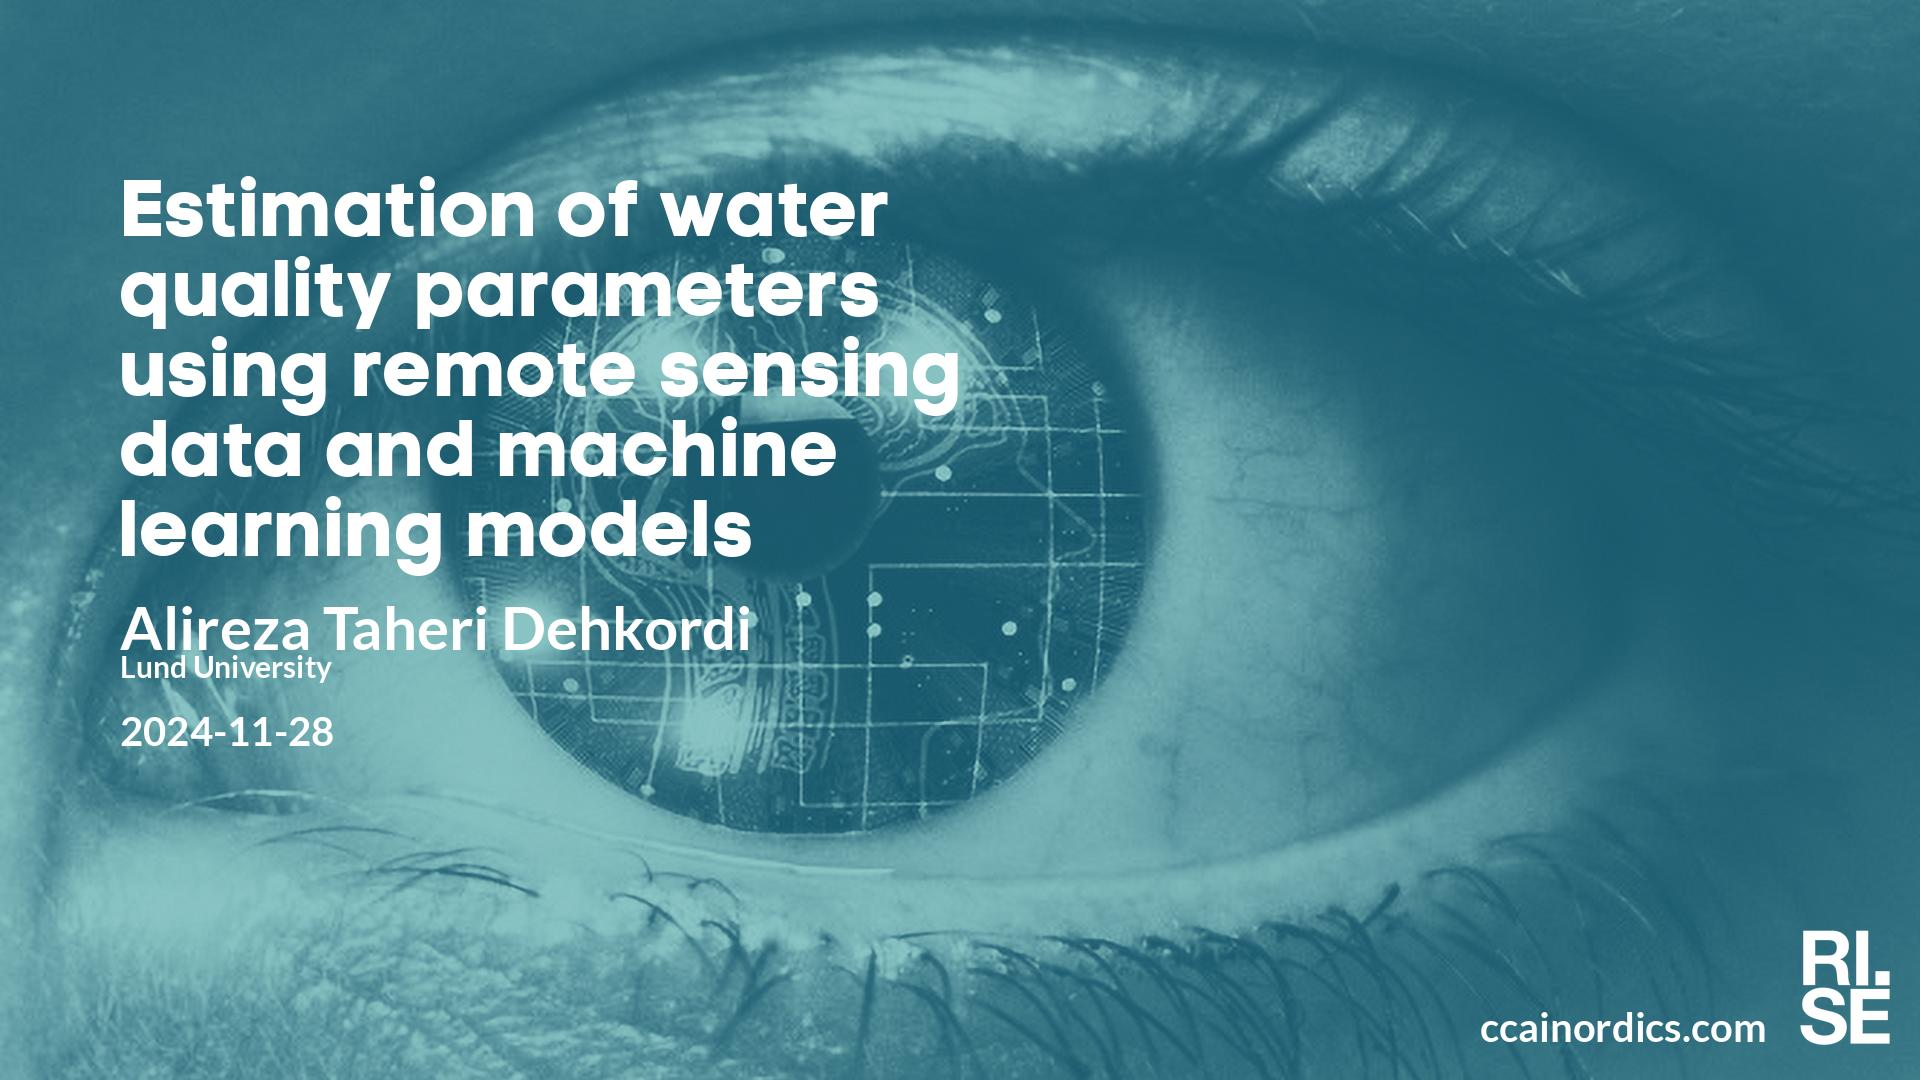
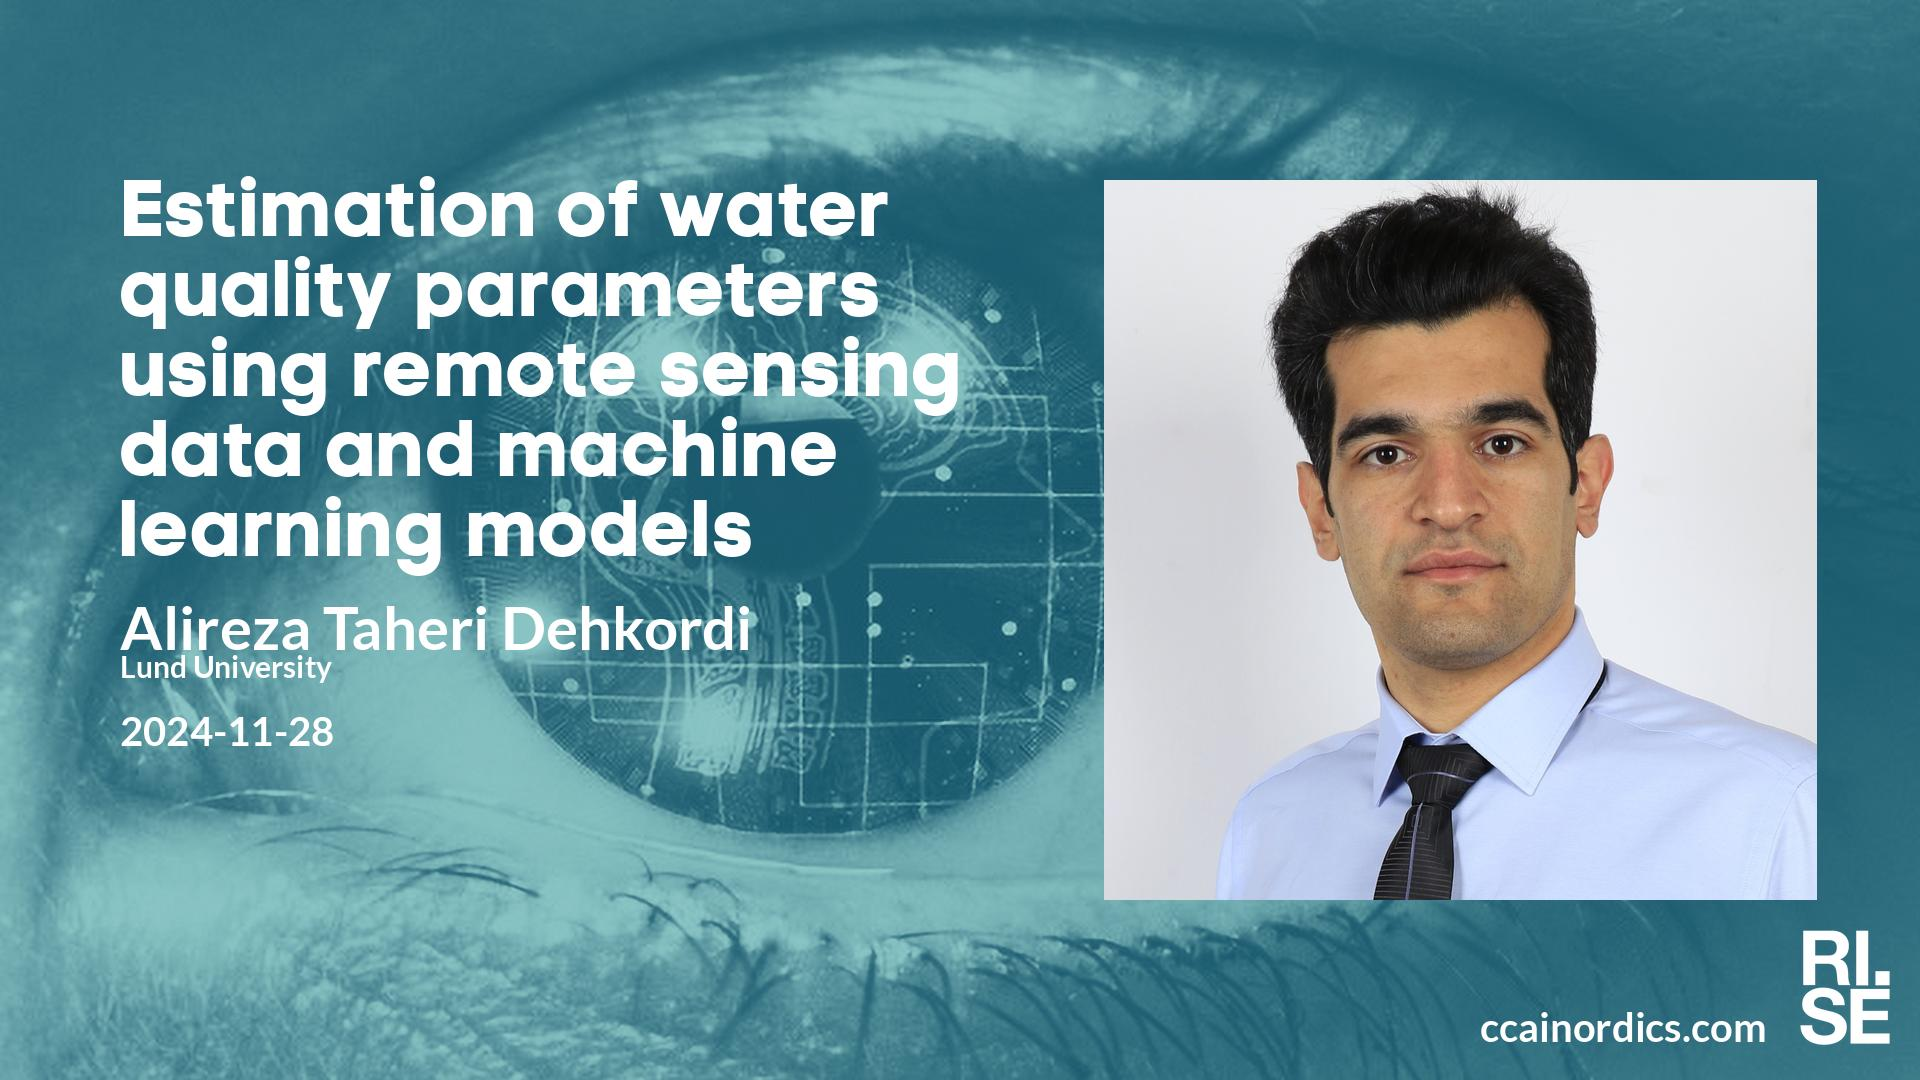
Updated plan on web site.

Changed region(s): [[0.5625, 0.1528, 0.9688, 0.8556]]

diff --git a/lm/index.md b/lm/index.md
@@ -13,7 +13,7 @@ table {border-collapse: collapse;}
 |  2024-11-07  |  [Joel Oskarsson, Linköping University](2024-11-07.md)  |  [photo](photo-joel-oskarsson.jpg)  |  [social media ](social-media-joel-oskarsson.jpg)  |  [meeting backdrop ](meeting-backdrop-joel-oskarsson.jpg)  |  [youtube thumbnail ](youtube-thumbnail-joel-oskarsson.jpg)  |  STABP  |
 |  2024-11-14  |  [Abdulhakim Abdi, Lund University](2024-11-14.md)  |  [photo](photo-abdulhakim-abdi.jpg)  |  [social media ](social-media-abdulhakim-abdi.jpg)  |  [meeting backdrop ](meeting-backdrop-abdulhakim-abdi.jpg)  |  [youtube thumbnail ](youtube-thumbnail-abdulhakim-abdi.jpg)  |  S~~TAB~~P  |
 |  2024-11-21  |  [Alp Kucukelbir, Columbia University](2024-11-21.md)  |  [photo](photo-alp-kucukelbir.jpg)  |  [social media ](social-media-alp-kucukelbir.jpg)  |  [meeting backdrop ](meeting-backdrop-alp-kucukelbir.jpg)  |  [youtube thumbnail ](youtube-thumbnail-alp-kucukelbir.jpg)  |  STABP  |
-|  2024-11-28  |  [Alireza Taheri Dehkordi, Lund University](2024-11-28.md)  |    |  [social media ](social-media-alireza-taheri-dehkordi.jpg)  |  [meeting backdrop ](meeting-backdrop-alireza-taheri-dehkordi.jpg)  |  [youtube thumbnail ](youtube-thumbnail-alireza-taheri-dehkordi.jpg)  |  STAB~~P~~  |
+|  2024-11-28  |  [Alireza Taheri Dehkordi, Lund University](2024-11-28.md)  |  [photo](photo-alireza-taheri-dehkordi.jpg)  |  [social media ](social-media-alireza-taheri-dehkordi.jpg)  |  [meeting backdrop ](meeting-backdrop-alireza-taheri-dehkordi.jpg)  |  [youtube thumbnail ](youtube-thumbnail-alireza-taheri-dehkordi.jpg)  |  STABP  |
 | <span style="color:grey"> 2024-12-05 </span> | <span style="color:grey"> Jonas A. ? </span> | <span style="color:grey">  </span> | <span style="color:grey">  </span> | <span style="color:grey">  </span> | <span style="color:grey">  </span> | <span style="color:grey"> S~~TABP~~ </span> |
 | <span style="color:purple"> 2024-12-12 </span> | <span style="color:purple"> *Up for grabs!!!* </span> | <span style="color:purple">  </span> | <span style="color:purple">  </span> | <span style="color:purple">  </span> | <span style="color:purple">  </span> | <span style="color:purple"> ~~STABP~~ </span> |
 | <span style="color:red"> 2024-12-19 </span> | <span style="color:red"> Jullov </span> | <span style="color:red">  </span> | <span style="color:red">  </span> | <span style="color:red">  </span> | <span style="color:red">  </span> | <span style="color:red"> CANCELLED </span> |
